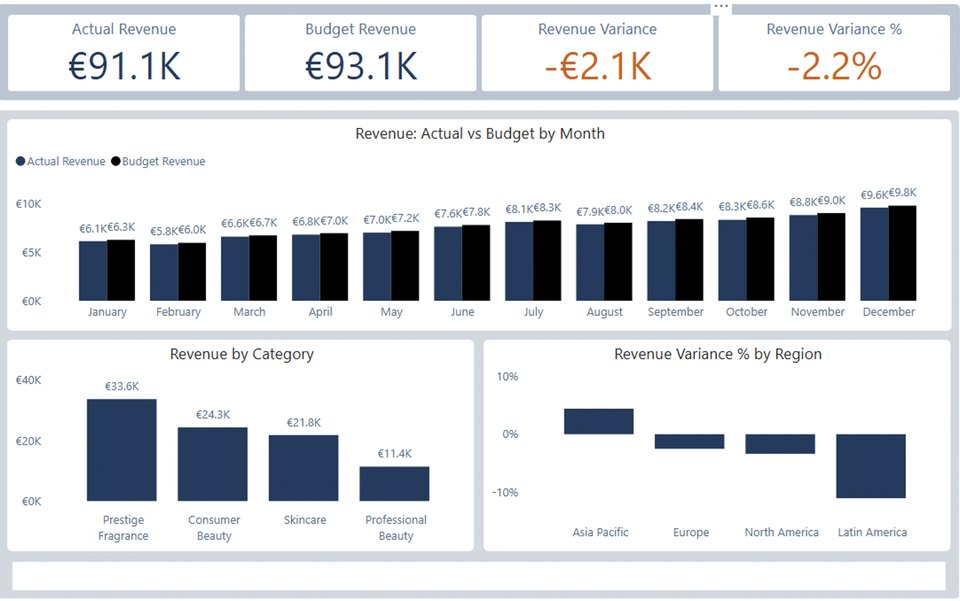
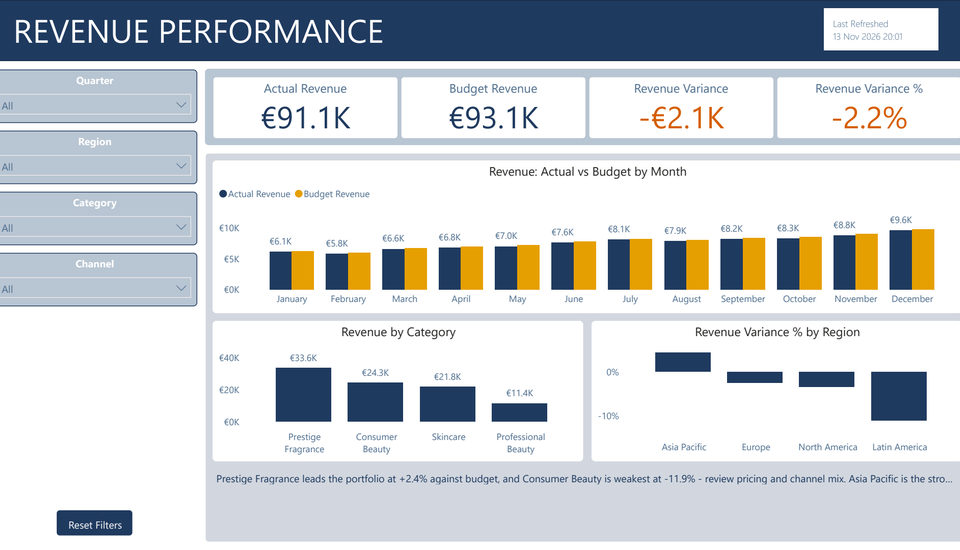
Show the Financial Performance (P&L) project card
The card was commented out pending two things: the report being
republished and the project being on GitHub. Both are now done, so it
goes live between the CD PROJEKT and HR cards.

Links point at the republished publish-to-web report and at
github.com/Iryna-Petruk/financial-performance-pnl. Verified the live URL
serves the current build -- neutral navy header, no employer emblem, the
four pages and figures matching the committed screenshot -- rather than
the superseded version that was published earlier.

Replaces img/pnl_dashboard.jpg with the Revenue page from the project's
own docs/img/revenue.png. The old file was 960x601 while the sibling
previews are 960x550, so the card sat taller than the other two. The new
one is scaled to height and centre-cropped 9 px per side rather than
squashed, so all three previews are now identically sized and the report
canvas keeps its aspect ratio.

Keeps the pnl-live-report and pnl-github goatcounter names, matching the
cdpr- and hr- prefixed attributes on the sibling cards.

Checked at 1440px and 920px: all three cards share a width, use the same
two-column grid, and no text overlaps an image at either size.

diff --git a/index.html b/index.html
@@ -147,9 +147,8 @@ footer{padding:28px 0 40px;font-size:13px;color:var(--faint)}
       </div>
     </article>
 
-    <!-- P&L project: hidden until the report is republished and on GitHub
     <article class="project">
-      <a class="shot" href="#" target="_blank" rel="noopener" data-goatcounter-click="pnl-live-report">
+      <a class="shot" href="https://app.powerbi.com/view?r=eyJrIjoiZWRiZDQzMTUtMmMxMC00MmIyLTg4YWYtOGI0Mjk4ZDc5NzYxIiwidCI6ImRmODY3OWNkLWE4MGUtNDVkOC05OWFjLWM4M2VkN2ZmOTVhMCJ9" target="_blank" rel="noopener" data-goatcounter-click="pnl-live-report">
         <img src="img/pnl_dashboard.jpg" alt="Revenue page of the Financial Performance P&amp;L dashboard">
       </a>
       <div class="body">
@@ -162,12 +161,11 @@ footer{padding:28px 0 40px;font-size:13px;color:var(--faint)}
         </div>
         <ul class="facts"><li>Budget vs actual</li><li>P&amp;L statement</li><li>Dynamic commentary</li><li>Colour-blind-safe</li></ul>
         <div class="links">
-          <a class="btn primary" href="#" target="_blank" rel="noopener" data-goatcounter-click="pnl-live-report">View live report</a>
-          <a class="btn" href="#" target="_blank" rel="noopener" data-goatcounter-click="pnl-github">Code on GitHub</a>
+          <a class="btn primary" href="https://app.powerbi.com/view?r=eyJrIjoiZWRiZDQzMTUtMmMxMC00MmIyLTg4YWYtOGI0Mjk4ZDc5NzYxIiwidCI6ImRmODY3OWNkLWE4MGUtNDVkOC05OWFjLWM4M2VkN2ZmOTVhMCJ9" target="_blank" rel="noopener" data-goatcounter-click="pnl-live-report">View live report</a>
+          <a class="btn" href="https://github.com/Iryna-Petruk/financial-performance-pnl" target="_blank" rel="noopener" data-goatcounter-click="pnl-github">Code on GitHub</a>
         </div>
       </div>
     </article>
-    -->
 
     <article class="project">
       <a class="shot" href="https://app.powerbi.com/view?r=eyJrIjoiNjc2M2I1NmUtYmJmZi00ZDg5LTlkN2QtNWJhZWFjZjRlNDRiIiwidCI6ImRmODY3OWNkLWE4MGUtNDVkOC05OWFjLWM4M2VkN2ZmOTVhMCJ9" target="_blank" rel="noopener" data-goatcounter-click="hr-live-report">
